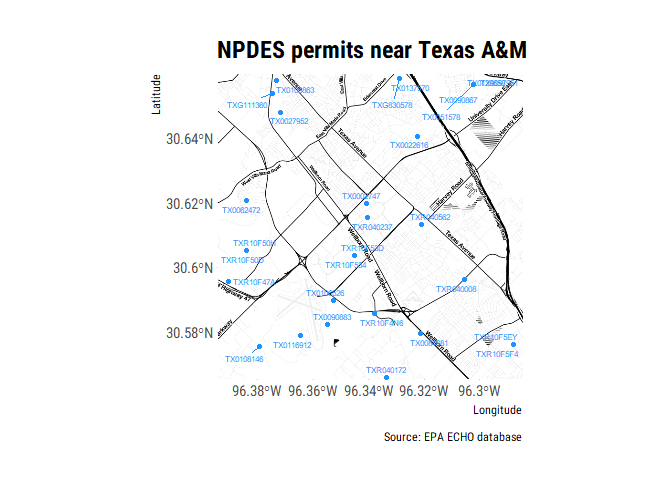
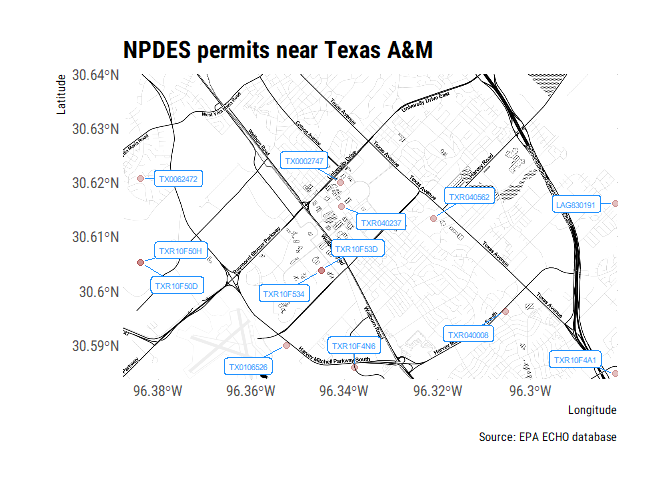
knit new readme

diff --git a/README.md b/README.md
@@ -47,268 +47,24 @@ df <- echoWaterGetFacilityInfo(output = "df", xmin = '-96.407563',
 head(df)
 ```
 
-``` r
-df <- echoWaterGetFacilityInfo(output = "df", xmin = '-96.407563',
-                               ymin = '30.554395', xmax = '-96.25947',
-                               ymax = '30.751984')
-knitr::kable(head(df), format = 'markdown')
-```
-
-<table style="width:100%;">
-<colgroup>
-<col width="2%" />
-<col width="6%" />
-<col width="2%" />
-<col width="10%" />
-<col width="3%" />
-<col width="2%" />
-<col width="3%" />
-<col width="1%" />
-<col width="5%" />
-<col width="2%" />
-<col width="2%" />
-<col width="4%" />
-<col width="2%" />
-<col width="5%" />
-<col width="6%" />
-<col width="3%" />
-<col width="5%" />
-<col width="2%" />
-<col width="3%" />
-<col width="4%" />
-<col width="3%" />
-<col width="2%" />
-<col width="3%" />
-<col width="4%" />
-<col width="4%" />
-</colgroup>
-<thead>
-<tr class="header">
-<th align="left">ObjectId</th>
-<th align="left">CWPName</th>
-<th align="left">SourceID</th>
-<th align="left">CWPStreet</th>
-<th align="left">CWPCity</th>
-<th align="left">CWPState</th>
-<th align="left">CWPStateDistrict</th>
-<th align="left">CWPZip</th>
-<th align="left">MasterExternalPermitNmbr</th>
-<th align="left">CWPCounty</th>
-<th align="left">CWPEPARegion</th>
-<th align="left">FacFederalAgencyCode</th>
-<th align="left">FacLong</th>
-<th align="left">CWPFacilityTypeIndicator</th>
-<th align="left">BioReportingObligations2017</th>
-<th align="left">StormWaterArea</th>
-<th align="left">SpeciesCriticalHabitalFlag</th>
-<th align="left">SwpppUrl</th>
-<th align="left">ExposedActivity</th>
-<th align="left">AssociatedPollutant</th>
-<th align="left">TypeOfMonitoring</th>
-<th align="left">TypeOfWater</th>
-<th align="left">EjscreenFlagUs</th>
-<th align="left">PctileProximityNPDESUs</th>
-<th align="left">PctileProximityNplUs</th>
-</tr>
-</thead>
-<tbody>
-<tr class="odd">
-<td align="left">1</td>
-<td align="left">AGGIE ACRES WWTP</td>
-<td align="left">TX0132187</td>
-<td align="left">800 FT SE OF N DOWLING RD APPROX 600 FT SW OF WALN</td>
-<td align="left">COLLEGE STATION</td>
-<td align="left">TX</td>
-<td align="left">NA</td>
-<td align="left">77845</td>
-<td align="left">NA</td>
-<td align="left">Brazos</td>
-<td align="left">06</td>
-<td align="left">NA</td>
-<td align="left">-96.291099</td>
-<td align="left">NON-POTW</td>
-<td align="left">NA</td>
-<td align="left">NA</td>
-<td align="left">NA</td>
-<td align="left">NA</td>
-<td align="left">NA</td>
-<td align="left">NA</td>
-<td align="left">NA</td>
-<td align="left">NA</td>
-<td align="left">N</td>
-<td align="left">NA</td>
-<td align="left">NA</td>
-</tr>
-<tr class="even">
-<td align="left">2</td>
-<td align="left">AGRIVEST SWINE FEEDLOT</td>
-<td align="left">TX0121240</td>
-<td align="left">SWISHER COUNTY</td>
-<td align="left">BRYAN</td>
-<td align="left">TX</td>
-<td align="left">NA</td>
-<td align="left">00000</td>
-<td align="left">NA</td>
-<td align="left">Swisher</td>
-<td align="left">06</td>
-<td align="left">NA</td>
-<td align="left">-96.36552</td>
-<td align="left">NON-POTW</td>
-<td align="left">NA</td>
-<td align="left">NA</td>
-<td align="left">NA</td>
-<td align="left">NA</td>
-<td align="left">NA</td>
-<td align="left">NA</td>
-<td align="left">NA</td>
-<td align="left">NA</td>
-<td align="left">N</td>
-<td align="left">NA</td>
-<td align="left">NA</td>
-</tr>
-<tr class="odd">
-<td align="left">3</td>
-<td align="left">ATKINS STREET POWER STATION</td>
-<td align="left">TX0027952</td>
-<td align="left">601 ATKINS STREET</td>
-<td align="left">BRYAN</td>
-<td align="left">TX</td>
-<td align="left">NA</td>
-<td align="left">77801</td>
-<td align="left">NA</td>
-<td align="left">Brazos</td>
-<td align="left">06</td>
-<td align="left">NA</td>
-<td align="left">-96.37165</td>
-<td align="left">NON-POTW</td>
-<td align="left">NA</td>
-<td align="left">NA</td>
-<td align="left">NA</td>
-<td align="left">NA</td>
-<td align="left">NA</td>
-<td align="left">NA</td>
-<td align="left">NA</td>
-<td align="left">NA</td>
-<td align="left">Y</td>
-<td align="left">92.1</td>
-<td align="left">67.3</td>
-</tr>
-<tr class="even">
-<td align="left">4</td>
-<td align="left">ATOFINA CHEMICALS, INC.</td>
-<td align="left">TX0108863</td>
-<td align="left">SW OF THE MO PACIFIC RR &amp;</td>
-<td align="left">BRYAN</td>
-<td align="left">TX</td>
-<td align="left">NA</td>
-<td align="left">77801</td>
-<td align="left">NA</td>
-<td align="left">Brazos</td>
-<td align="left">06</td>
-<td align="left">NA</td>
-<td align="left">-96.37303</td>
-<td align="left">NON-POTW</td>
-<td align="left">NA</td>
-<td align="left">NA</td>
-<td align="left">NA</td>
-<td align="left">NA</td>
-<td align="left">NA</td>
-<td align="left">NA</td>
-<td align="left">NA</td>
-<td align="left">NA</td>
-<td align="left">Y</td>
-<td align="left">92.1</td>
-<td align="left">67.3</td>
-</tr>
-<tr class="odd">
-<td align="left">5</td>
-<td align="left">BARTLETT 1</td>
-<td align="left">TX0120421</td>
-<td align="left">SWISHER COUNTY</td>
-<td align="left">AMARILLO</td>
-<td align="left">TX</td>
-<td align="left">NA</td>
-<td align="left">00000</td>
-<td align="left">NA</td>
-<td align="left">Swisher</td>
-<td align="left">06</td>
-<td align="left">NA</td>
-<td align="left">-96.36552</td>
-<td align="left">NON-POTW</td>
-<td align="left">NA</td>
-<td align="left">NA</td>
-<td align="left">NA</td>
-<td align="left">NA</td>
-<td align="left">NA</td>
-<td align="left">NA</td>
-<td align="left">NA</td>
-<td align="left">NA</td>
-<td align="left">N</td>
-<td align="left">NA</td>
-<td align="left">NA</td>
-</tr>
-<tr class="even">
-<td align="left">6</td>
-<td align="left">BOSSIER PARISH RESOURCE CENTER</td>
-<td align="left">LAG830191</td>
-<td align="left">3228 BARKDALE BLVD</td>
-<td align="left">BENTON</td>
-<td align="left">LA</td>
-<td align="left">NA</td>
-<td align="left">71111</td>
-<td align="left">LAG830000</td>
-<td align="left">Bossier</td>
-<td align="left">06</td>
-<td align="left">NA</td>
-<td align="left">-96.28182</td>
-<td align="left">NON-POTW</td>
-<td align="left">NA</td>
-<td align="left">NA</td>
-<td align="left">NA</td>
-<td align="left">NA</td>
-<td align="left">NA</td>
-<td align="left">NA</td>
-<td align="left">NA</td>
-<td align="left">NA</td>
-<td align="left">N</td>
-<td align="left">23.7</td>
-<td align="left">48.8</td>
-</tr>
-</tbody>
-</table>
-
 This can be retrieved as a geojson and plotted as well:
 
 ``` r
 library(ggmap)
 library(sf)
-#> Linking to GEOS 3.6.1, GDAL 2.2.0, proj.4 4.9.3
 library(ggrepel)
 
 df <- echoWaterGetFacilityInfo(output = "sp", 
-                               xmin = '-96.407563', 
-                               ymin = '30.554395', 
-                               xmax = '-96.25947', 
-                               ymax = '30.751984')
-#> No encoding supplied: defaulting to UTF-8.
+                               xmin = '-96.387509', 
+                               ymin = '30.583572', 
+                               xmax = '-96.281422', 
+                               ymax = '30.640008')
 
-collegestation <- get_map(location = c(lon = -96.3395,
-                                       lat = 30.6127), 
-                          zoom = 13, maptype = "toner")
-#> maptype = "toner" is only available with source = "stamen".
-#> resetting to source = "stamen"...
-#> Map from URL : http://maps.googleapis.com/maps/api/staticmap?center=30.6127,-96.3395&zoom=13&size=640x640&scale=2&maptype=terrain&sensor=false
-#> Map from URL : http://tile.stamen.com/toner/13/1902/3362.png
-#> Map from URL : http://tile.stamen.com/toner/13/1903/3362.png
-#> Map from URL : http://tile.stamen.com/toner/13/1904/3362.png
-#> Map from URL : http://tile.stamen.com/toner/13/1902/3363.png
-#> Map from URL : http://tile.stamen.com/toner/13/1903/3363.png
-#> Map from URL : http://tile.stamen.com/toner/13/1904/3363.png
-#> Map from URL : http://tile.stamen.com/toner/13/1902/3364.png
-#> Map from URL : http://tile.stamen.com/toner/13/1903/3364.png
-#> Map from URL : http://tile.stamen.com/toner/13/1904/3364.png
+collegestation <- get_map(location = c(-96.387509, 30.583572,
+                                       -96.281422, 30.640008), 
+                          zoom = 14, maptype = "toner")
 
-##to make labels, need to map the coords using purrr::map() and use geom_text :(
+##to make labels, need to map the coords and use geom_text :(
 ## can't help but think there is an easier way to do this
 
 df <- df %>%
@@ -318,18 +74,17 @@ df <- df %>%
     coords_y = map_dbl(coords, 2)
   )
 
-ggmap(collegestation, extent = "device") + 
-  geom_sf(data = df, inherit.aes = FALSE, color = "dodgerblue") +
-  geom_text_repel(data = df, aes(x = coords_x, y = coords_y, label = SourceID),
-                  size = 2, color = "dodgerblue") +
+ggmap(collegestation) + 
+  geom_sf(data = df, inherit.aes = FALSE, shape = 21, 
+          color = "darkred", fill = "darkred", 
+          size = 2, alpha = 0.25) +
+  geom_label_repel(data = df, aes(x = coords_x, y = coords_y, label = SourceID),
+                   point.padding = .5, min.segment.length = 0.1,
+                   size = 2, color = "dodgerblue") +
   theme_ipsum_rc() +
   labs(x = "Longitude", y = "Latitude", 
        title = "NPDES permits near Texas A&M",
        caption = "Source: EPA ECHO database")
-#> Warning: `panel.margin` is deprecated. Please use `panel.spacing` property
-#> instead
-#> Coordinate system already present. Adding new coordinate system, which will replace the existing one.
-#> Warning: Removed 19 rows containing missing values (geom_text_repel).
 ```
 
 ![](man/figures/README-example2-1.png)
